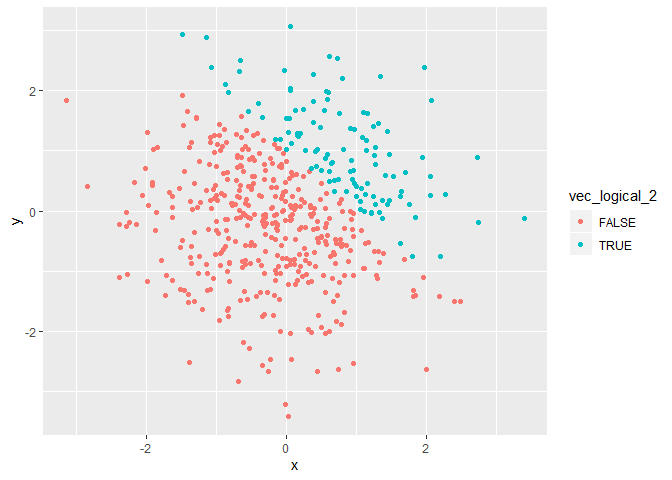
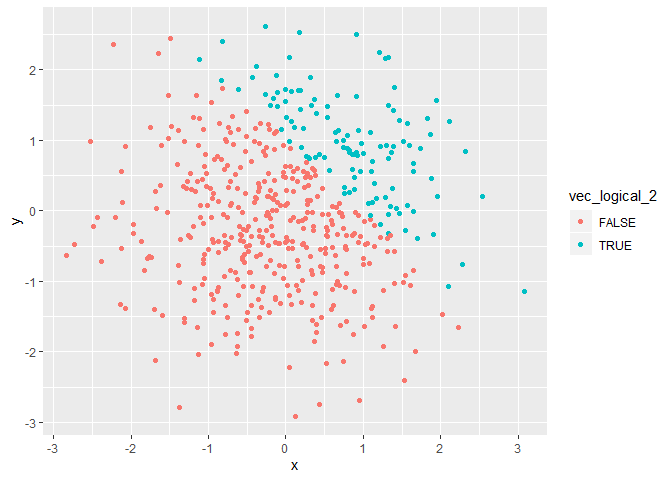
Final version

diff --git a/hw1.md b/hw1.md
@@ -1,4 +1,4 @@
-create a single .Rmd file named p8105\_hw1\_jf3286.Rmd
+Homework 1
 ================
 Jingyu Fu
 2019/9/17
@@ -20,13 +20,13 @@ prob1_df = tibble(
 mean(pull(prob1_df, df_sample))
 ```
 
-    ## [1] 0.9280043
+    ## [1] 0.4111201
 
 ``` r
 mean(pull(prob1_df, vec_logical))
 ```
 
-    ## [1] 0.75
+    ## [1] 0.5
 
 ``` r
 mean(pull(prob1_df, vec_char))
@@ -99,11 +99,11 @@ prob2_df = tibble  (
 
 The size of the dataset is 500 rows and 5 columns.
 
-The mean of x is -0.0627943, the median of x is -0.074768, and the
-standrd deviation of x is 0.9932839.
+The mean of x is -0.0077571, the median of x is -0.0041857, and the
+standrd deviation of x is 0.9850241.
 
 The proportion of case for which x + y \> 1 is
-0.224.
+0.238.
 
 ## problem 2.3
 
